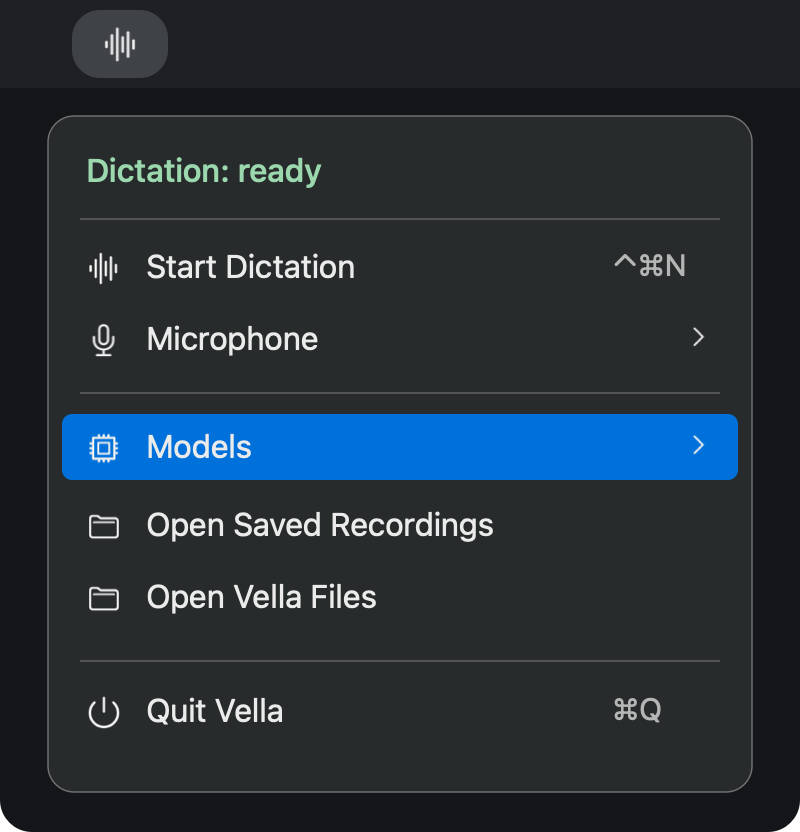
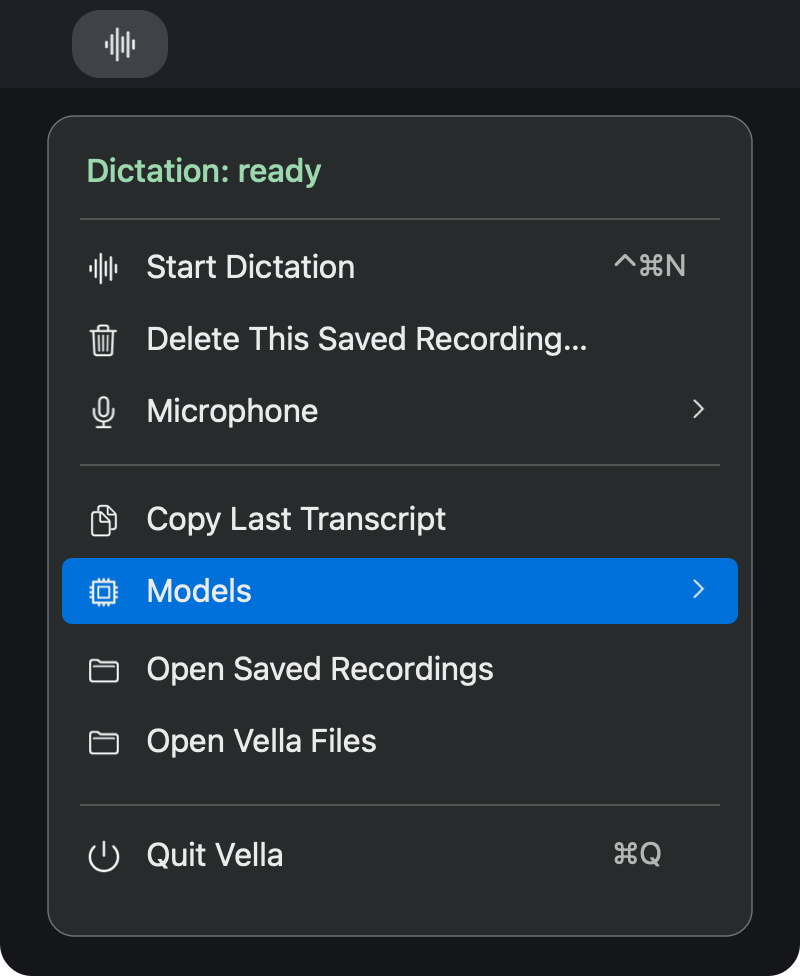
Show complete post-recording menu in README preview

diff --git a/README.md b/README.md
@@ -14,7 +14,7 @@ The waveform appears while you speak. Longer jobs also show an estimated time re
 |:---:|:---:|
 | <img src="docs/images/recording.png" alt="Vella’s lavender waveform while recording" width="320"> | <img src="docs/images/transcribing.png" alt="Vella’s waveform and time estimate while transcribing" width="320"> |
 
-<img src="docs/images/menu-preview.png" alt="Rendered preview of Vella’s menu-bar icon and dropdown" width="360">
+<img src="docs/images/menu-preview.png" alt="Vella’s menu after a recording, including Copy Last Transcript and Delete This Saved Recording" width="360">
 
 Pick a microphone, start recording, or open your saved transcripts from the menu. Open **Models** to choose what handles the transcription.
 
